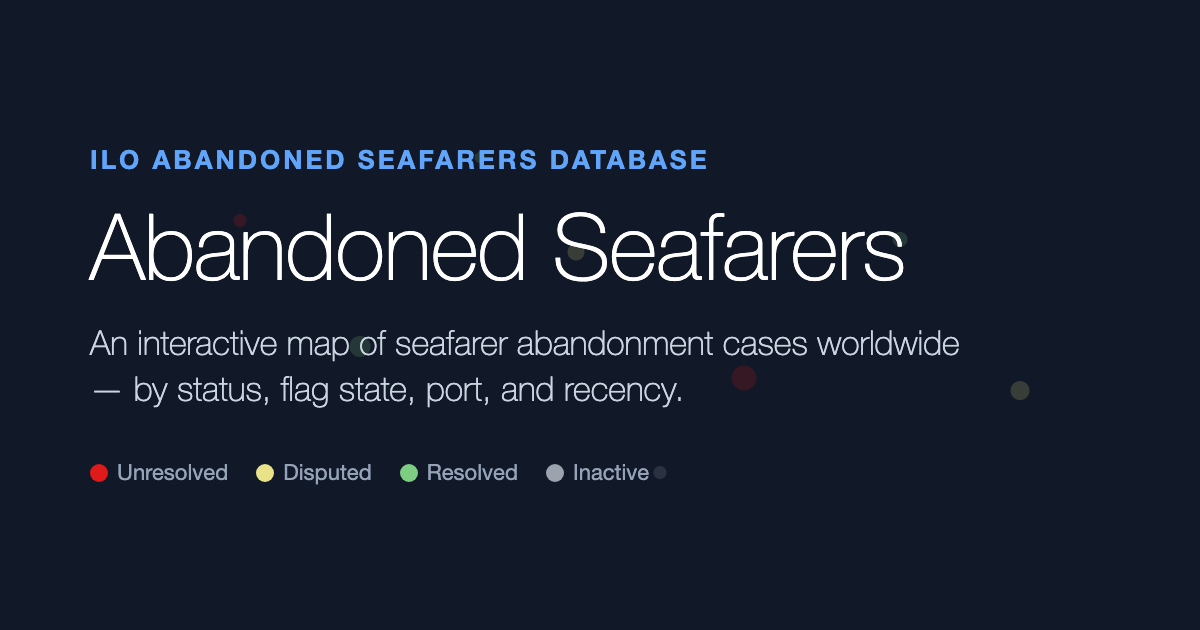
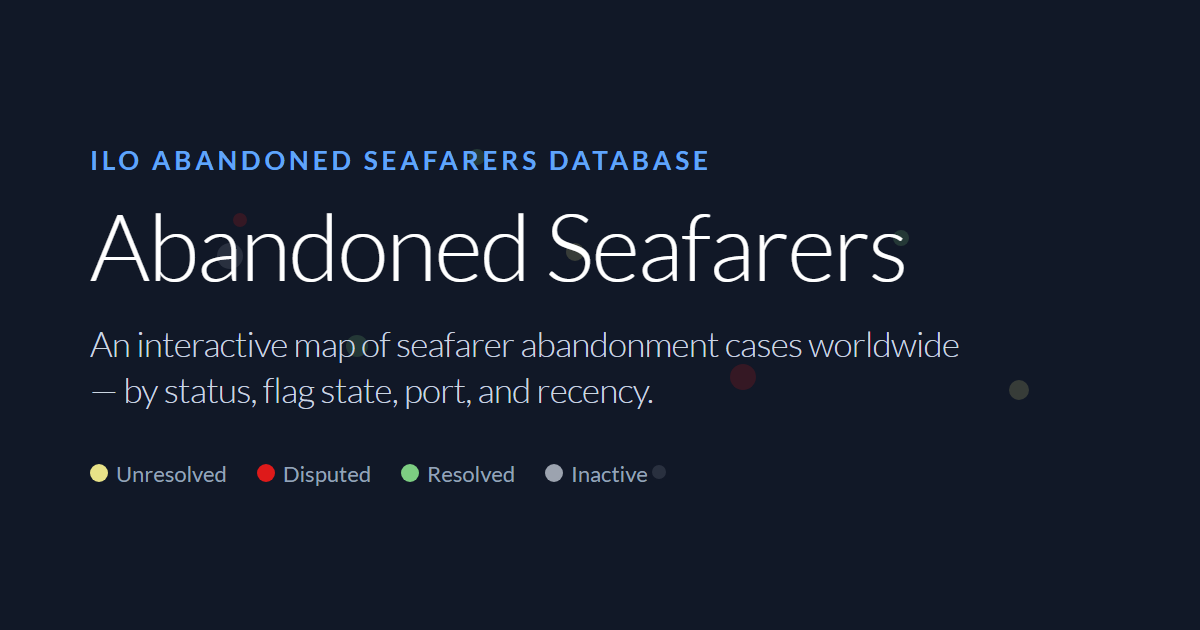
Redraw the social card from the site's own status colours
frontend/public/og-image.png is the Open Graph / Twitter card named in
index.html and the thumbnail on every Bluesky post (THUMB_PATH in
bluesky/src/config.js). Its legend explained the map with Unresolved
red and Disputed yellow - the two swapped against statusColors.js - so
every share and every post has carried the wrong key.

The image existed only as a committed binary with nothing able to
redraw it, so add frontend/scripts/og-image.mjs: it screenshots an HTML
page in headless Chrome and imports STATUS_COLORS from the site rather
than keeping a second copy of it. bluesky/src/status.js has to copy the
site's labels and test for drift because it is CommonJS; this script is
ESM under frontend/, so it reads the real thing and there is no copy to
drift.

A committed PNG can still go stale on its own, so the check belongs on
the artefact rather than the source: verifyLegend() re-reads the
rendered image and fails unless the four dots are, left to right, the
LEGEND statuses in their statusColors.js fills. The generator runs it
before it overwrites anything, and frontend/test/og-image.test.js runs
it against whatever is committed - the same rule rejects the image this
replaces.

Same 1200x630 design, redrawn in Lato as the site loads it: the legend
ink and the title's right edge land on the original's pixels and
everything else is within 3px. 63.6 KB -> 54.7 KB.

diff --git a/frontend/test/og-image.test.js b/frontend/test/og-image.test.js
@@ -1,0 +1,36 @@
+// public/og-image.png is a committed binary — the Open Graph card in index.html
+// and the thumbnail on every Bluesky post — so nothing redraws it when the site
+// changes underneath it. It had already drifted: the committed card explained
+// the map with Unresolved red and Disputed yellow, the two swapped against
+// statusColors.js. These read the committed PNG back and fail if it drifts
+// again. Regenerate with `node scripts/og-image.mjs`.
+
+import { test } from 'node:test';
+import assert from 'node:assert/strict';
+import { readFileSync } from 'node:fs';
+import { fileURLToPath } from 'node:url';
+import { LEGEND, WIDTH, HEIGHT, readPng, verifyLegend } from '../scripts/og-image.mjs';
+import { STATUS_COLORS } from '../src/utils/statusColors.js';
+
+const CARD = fileURLToPath(new URL('../public/og-image.png', import.meta.url));
+const card = readPng(readFileSync(CARD));
+
+test("the card's legend dots are the site's status fills, left to right", () => {
+  // throws naming the status if a dot is missing, smeared, or out of order
+  const dots = verifyLegend(card);
+  assert.deepEqual(
+    dots.map(dot => `${dot.label} ${dot.fill}`),
+    LEGEND.map(status => `${STATUS_COLORS[status].label} ${STATUS_COLORS[status].fill}`),
+  );
+});
+
+test('each legend dot really is that colour at its centre', () => {
+  for (const dot of verifyLegend(card)) {
+    assert.equal(card.hex(Math.round(dot.x), Math.round(dot.y)), STATUS_COLORS[dot.status].fill,
+      `the ${dot.label} dot`);
+  }
+});
+
+test('the card is the size index.html advertises', () => {
+  assert.deepEqual([card.width, card.height], [WIDTH, HEIGHT]);
+});
